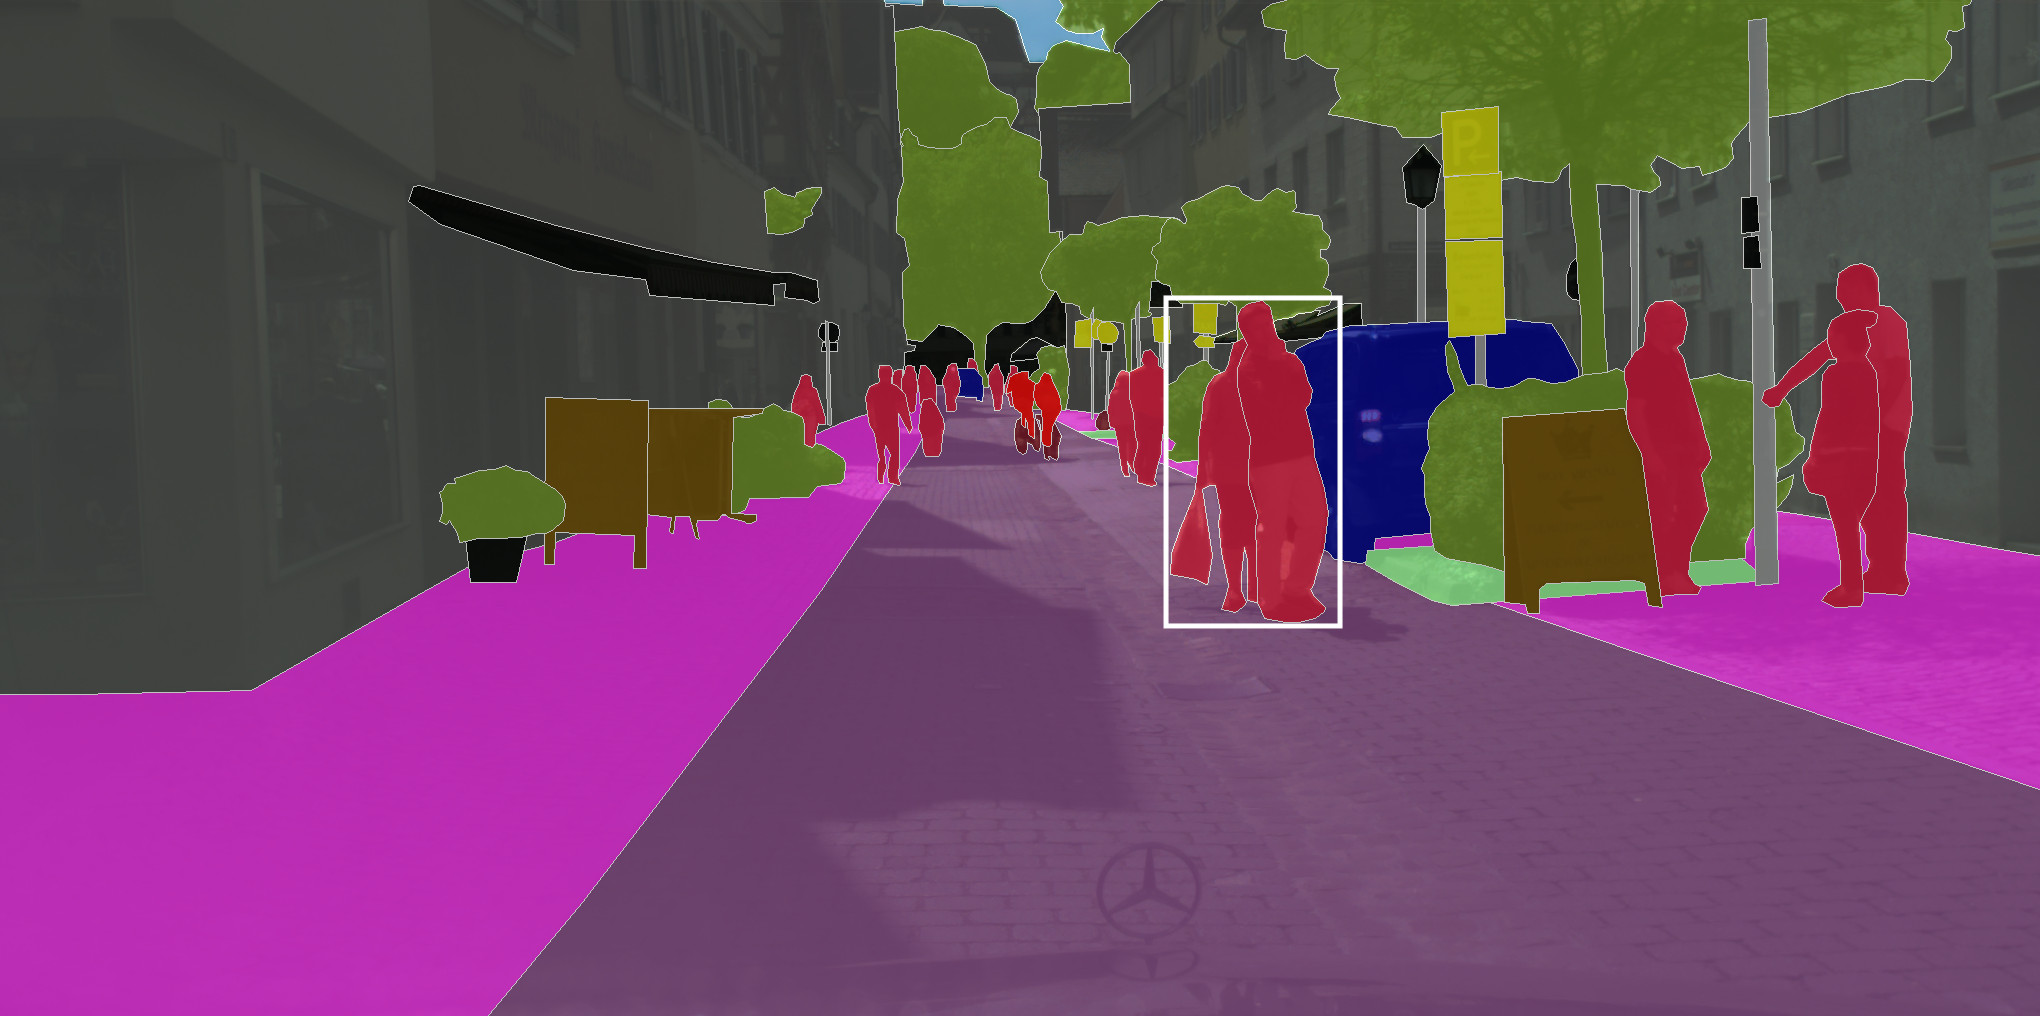
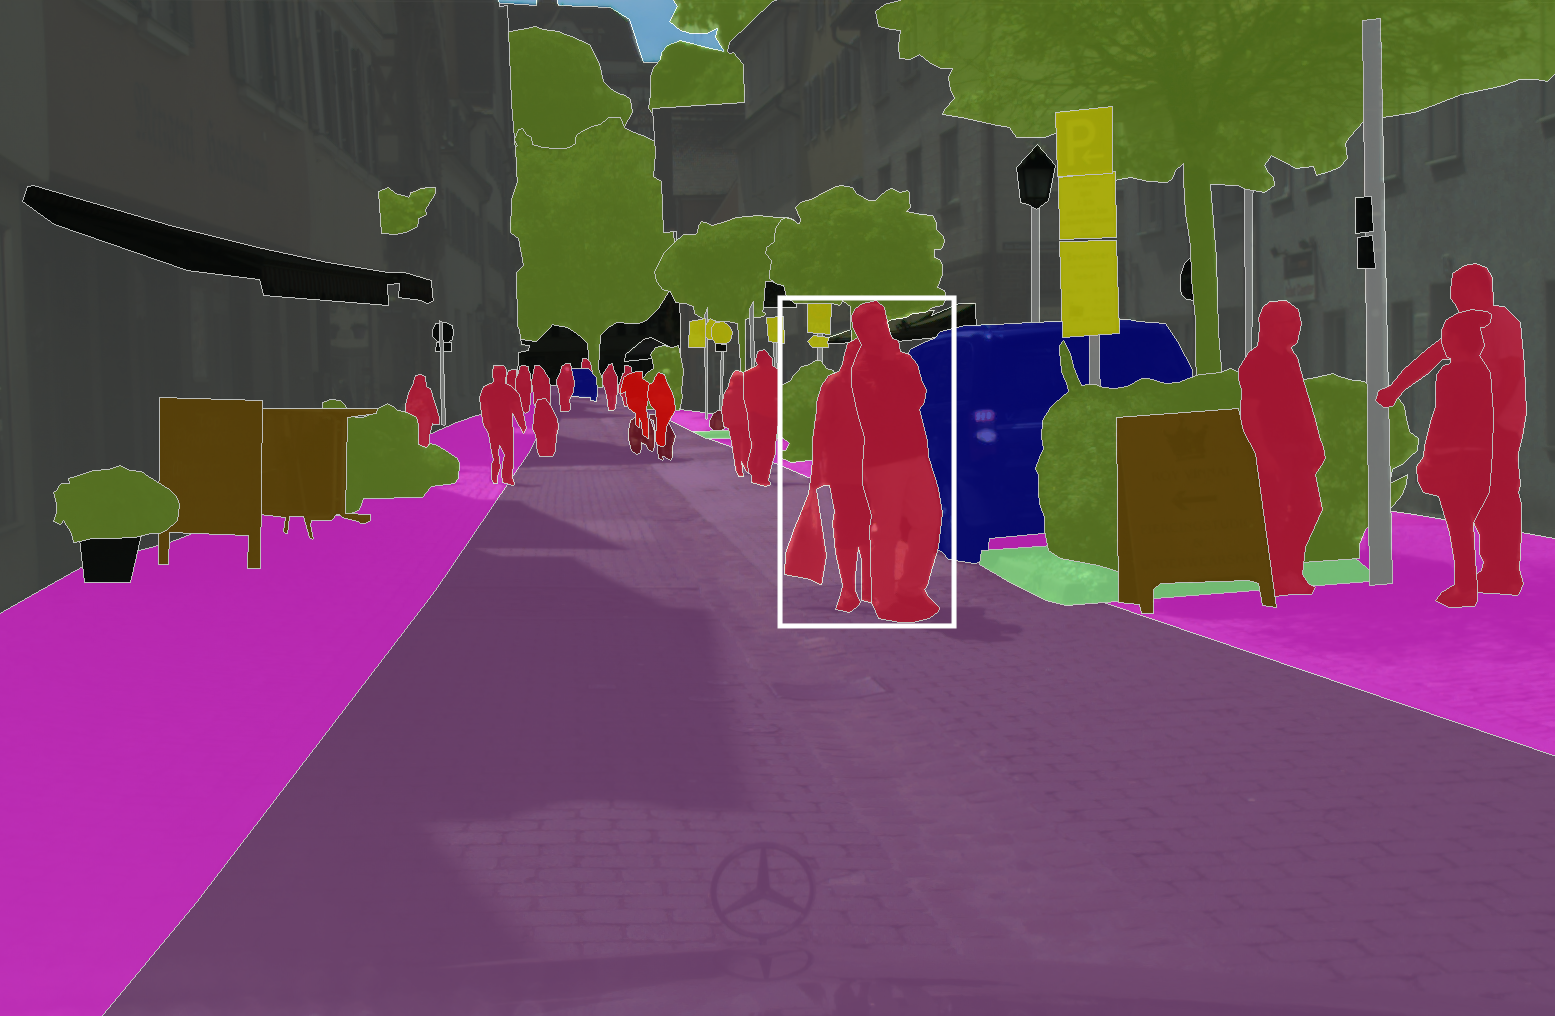
image resizing and some minor typos

diff --git a/content/authors/admin/_index.md b/content/authors/admin/_index.md
@@ -23,9 +23,9 @@ organizations:
 bio: My research interests include probabilistic numerics, uncertainty estimation in classification and Gaussian processes.
 
 interests:
-- Probabilistic numerics
-- Uncertainty estimation
-- Non-parametric statistics
+- Probabilistic Numerics
+- Uncertainty Estimation
+- Non-parametric Statistics
 
 education:
   courses:

diff --git a/content/teaching/probabilisticml2020/index.md b/content/teaching/probabilisticml2020/index.md
@@ -5,7 +5,7 @@ title: "Tutorial: Probabilistic Machine Learning SS2020"
 location:
 summary:
 authors: [admin]
-date: 2020-04-15
+date: 2020-04-01
 tags: []
 
 # Optional external URL for project (replaces project detail page).

diff --git a/content/teaching/dataliteracy2019/index.md b/content/teaching/dataliteracy2019/index.md
@@ -5,7 +5,7 @@ title: "Tutorial: Data Literacy WS2019/20"
 location:
 summary:
 authors: [admin]
-date: 2019-10-15
+date: 2019-10-01
 tags: []
 
 # Optional external URL for project (replaces project detail page).
